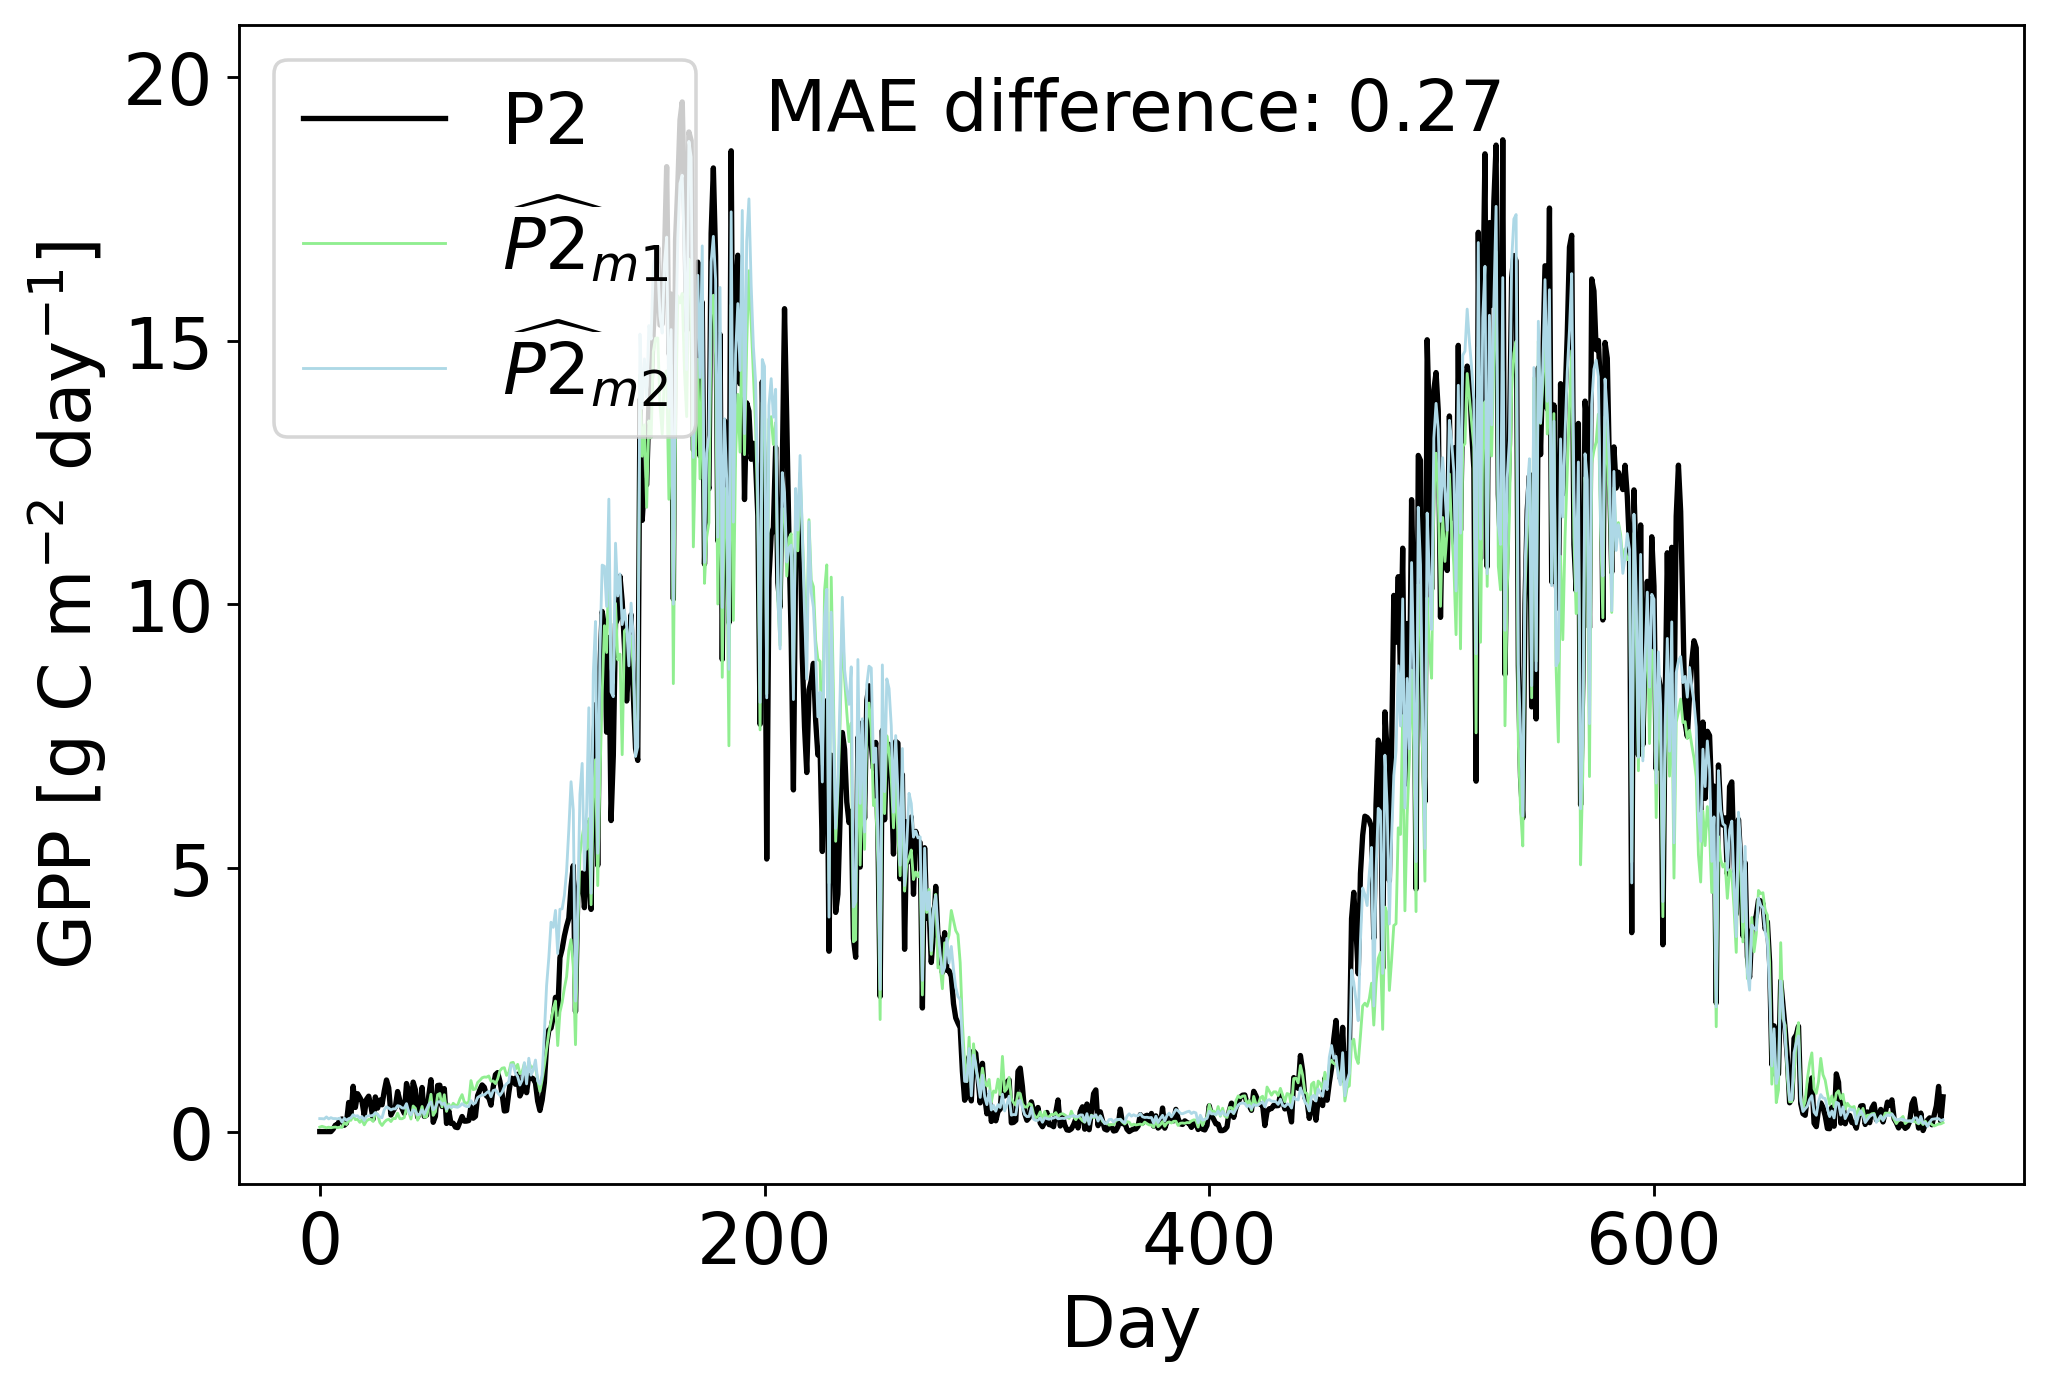
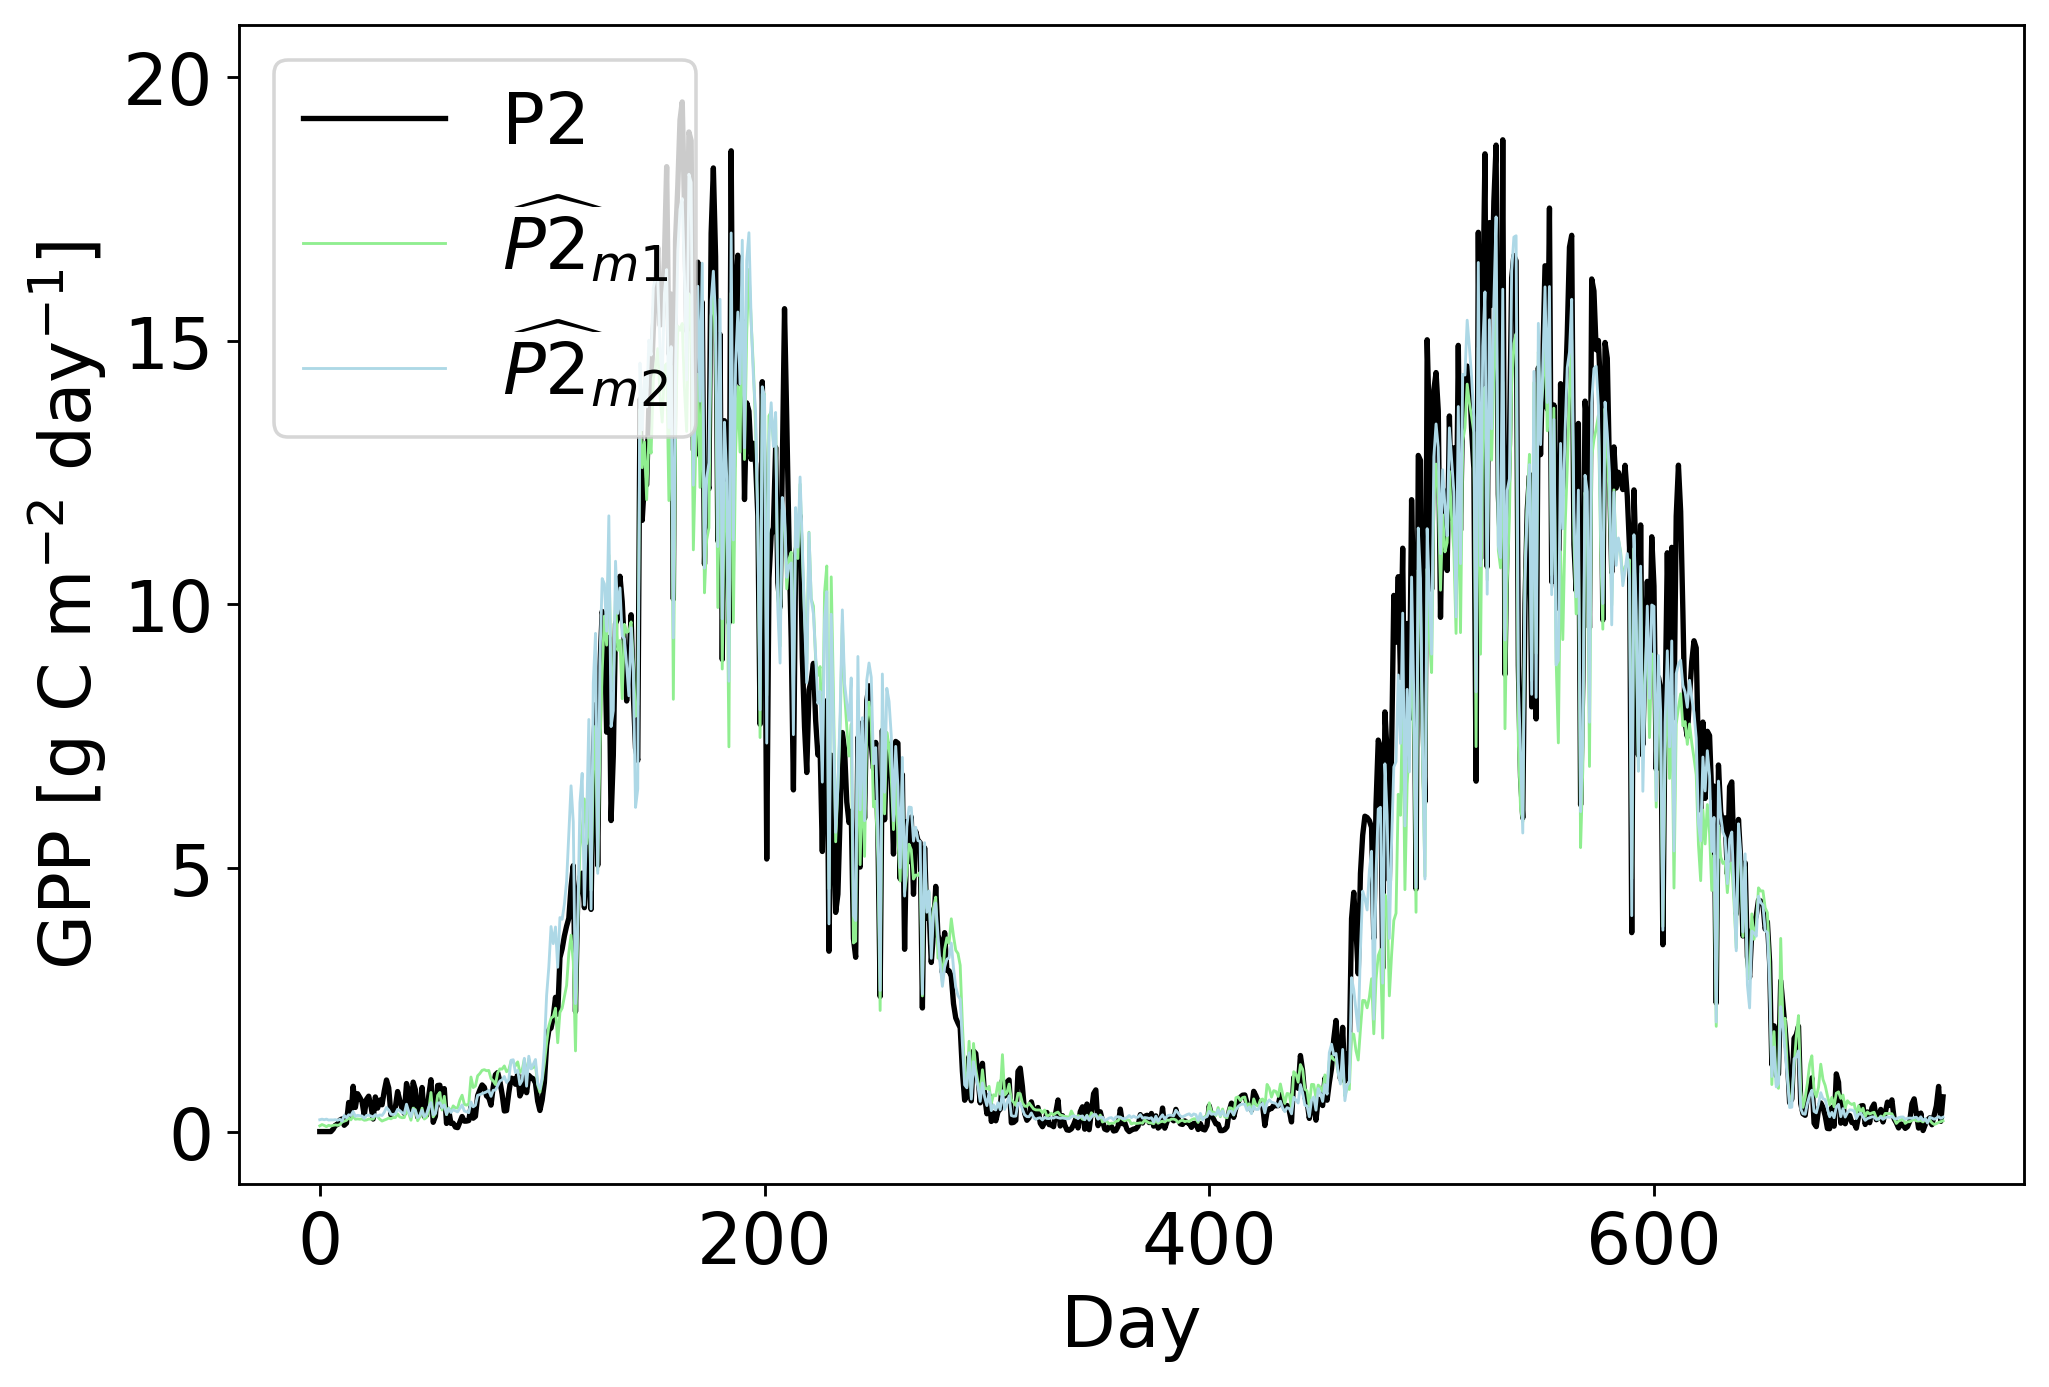
Changed visualizations

diff --git a/code/main.py b/code/main.py
@@ -20,13 +20,14 @@ Inter-annual variability of NN-predicted GPP.
 #%% Set working directory
 import os
 print("Current Working Directory " , os.getcwd())
-os.chdir("/Users/marie/OneDrive/Dokumente/Sc_Master/Internship/Intern_MPI_Jena") 
+#%%
+os.chdir("/Users/Marieke_Wesselkamp/Documents/Projects/Intern_MPI_Jena") 
 print("Current Working Directory " , os.getcwd())
 
 #%% Set system path
 import sys
 print(sys.path)
-sys.path.append('/Users/marie/OneDrive/Dokumente/Sc_Master/Internship/Intern_MPI_Jena/code')
+sys.path.append('/Users/Marieke_Wesselkamp/Documents/Projects/Intern_MPI_Jena/code')
 
 #%% Import packages
 import preprocessing
@@ -75,19 +76,22 @@ running_losses_d2p1 = training.train(hparams_setting, model_design, X_P1.to_nump
 running_losses_d2p2 = training.train(hparams_setting, model_design, X_P2.to_numpy(), Y_Preles_P2.to_numpy(), "D2P2")
 #%%
 visualizations.plot_running_losses(running_losses_d1p1["mae_train"], running_losses_d1p1["mae_val"])
-#%% Predict with fitted models to P2.
+#%% Predict with fitted models to D1P2.
 preds_d1m1, mae_d1m1, nse_d1m1 = prediction.predict(hparams_setting, model_design, X_P2.to_numpy(), Y_P2.to_numpy(),"D1P1")
 preds_d1m2, mae_d1m2, nse_d1m2 = prediction.predict(hparams_setting, model_design, X_P2.to_numpy(), Y_P2.to_numpy(),"D1P2")
 
-visualizations.plot_predictions(Y_P2, preds_d1m1, preds_d1m2, mae_d1m1, mae_d1m2)
-#%% 
+#%%
+visualizations.plot_predictions(Y_P2, preds_d1m1, preds_d1m2, mae_d1m1, mae_d1m2) 
 visualizations.plot_running_losses(running_losses_d2p1["mae_train"], running_losses_d2p1["mae_val"])
-#%% Predict with fitted models to P2.
+#%%
+visualizations.plot_prediction_differences(preds_d1m2, preds_d1m1)
+
+#%% Predict with fitted models to D2P2.
 preds_d2m1, mae_d2m1, nse_d2m1 = prediction.predict(hparams_setting, model_design, X_P2.to_numpy(), Y_Preles_P2.to_numpy(), "D2P1")
 preds_d2m2, mae_d2m2, nse_d2m2 = prediction.predict(hparams_setting, model_design, X_P2.to_numpy(), Y_Preles_P2.to_numpy(), "D2P2")
-
+#%%
 visualizations.plot_predictions(Y_Preles_P2, preds_d2m1, preds_d2m2, mae_d2m1, mae_d2m2)
-
+visualizations.plot_prediction_differences(preds_d2m1, preds_d2m2)
 #%%
 import torch
 import models 

diff --git a/code/visualizations.py b/code/visualizations.py
@@ -39,12 +39,24 @@ def plot_predictions(Y, preds1, preds2, mae1, mae2):
     plt.xlabel("Day")
     plt.ylim(-1,21)
     plt.legend(loc = "upper left")
-    plt.text(200, 19, f"MAE difference: {np.round(abs(np.mean(mae1)-np.mean(mae2)), 2)}")
+    #plt.text(200, 19, f"MAE difference: {np.round(abs(np.mean(mae1)-np.mean(mae2)), 2)}")
+    #plt.gca().set_aspect('equal', adjustable='box')
     #plt.text(200, 18, f"MAE difference: {np.round(abs(np.mean(nse1)-np.mean(nse2)), 2)}")
     #plt.text(250, 15, f"MAE_m2: {np.round(np.mean(mae_m2), 4)}")
     print("Extrapolation error:", np.mean(mae1))
     print("Training error:", np.mean(mae2))
     print("Absolute difference:", abs(np.mean(mae1)-np.mean(mae2)))
+    
+def plot_prediction_differences(preds_d1m2, preds_d1m1):
+    fig, ax = plt.subplots()
+    err = np.transpose(preds_d1m2)-np.transpose(preds_d1m1)
+    print(np.sum(err))
+    CI = np.quantile(err, (0.05,0.95),axis=1)
+    ax.fill_between(np.arange(len(err)), CI[0],CI[1], color="salmon", alpha=0.5)
+    ax.plot(np.mean(err, axis=1), color="red", label = "$\widehat{P2_{m2}} - \widehat{P2_{m1}}$", linewidth=1.0)
+    ax.set_ylabel("GPP [g C m$^{-2}$ day$^{-1}$] ")
+    ax.set_xlabel("Day of year")
+    ax.legend()
     
     #%%
 def plot_running_losses(train_loss, val_loss, 
